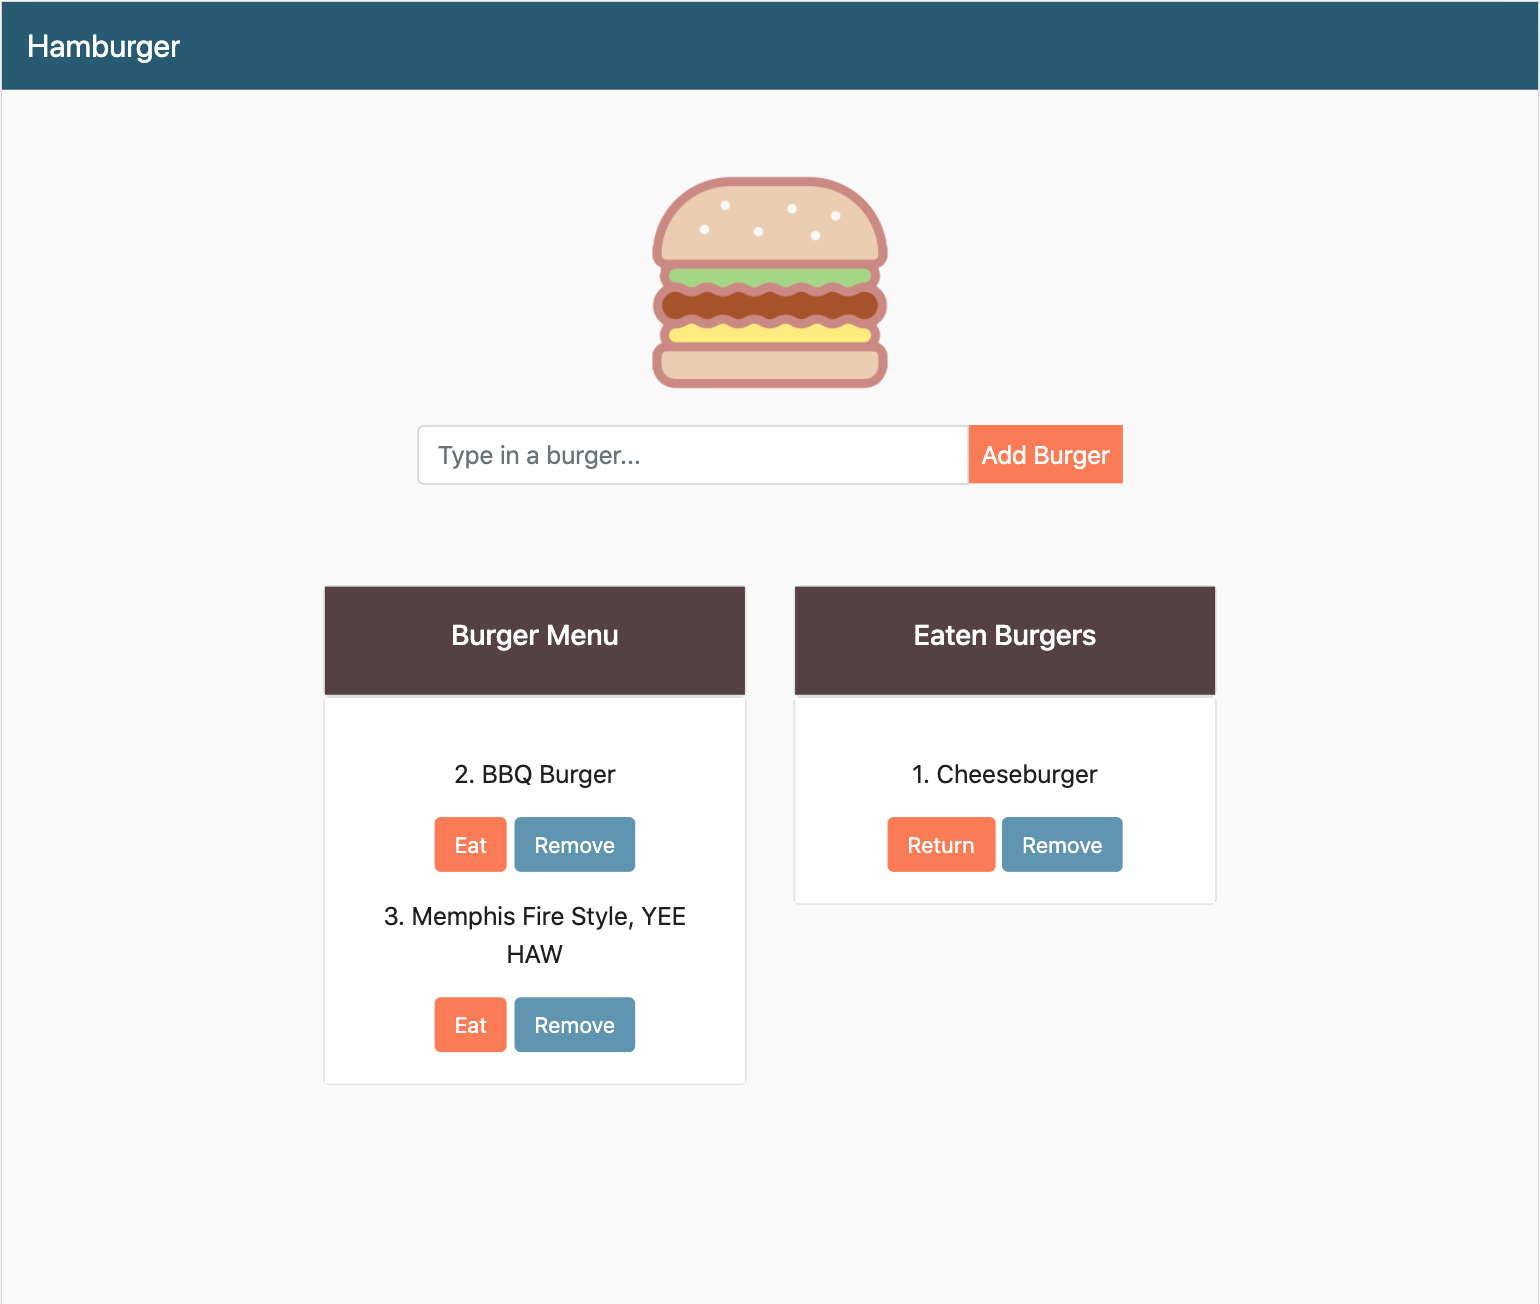
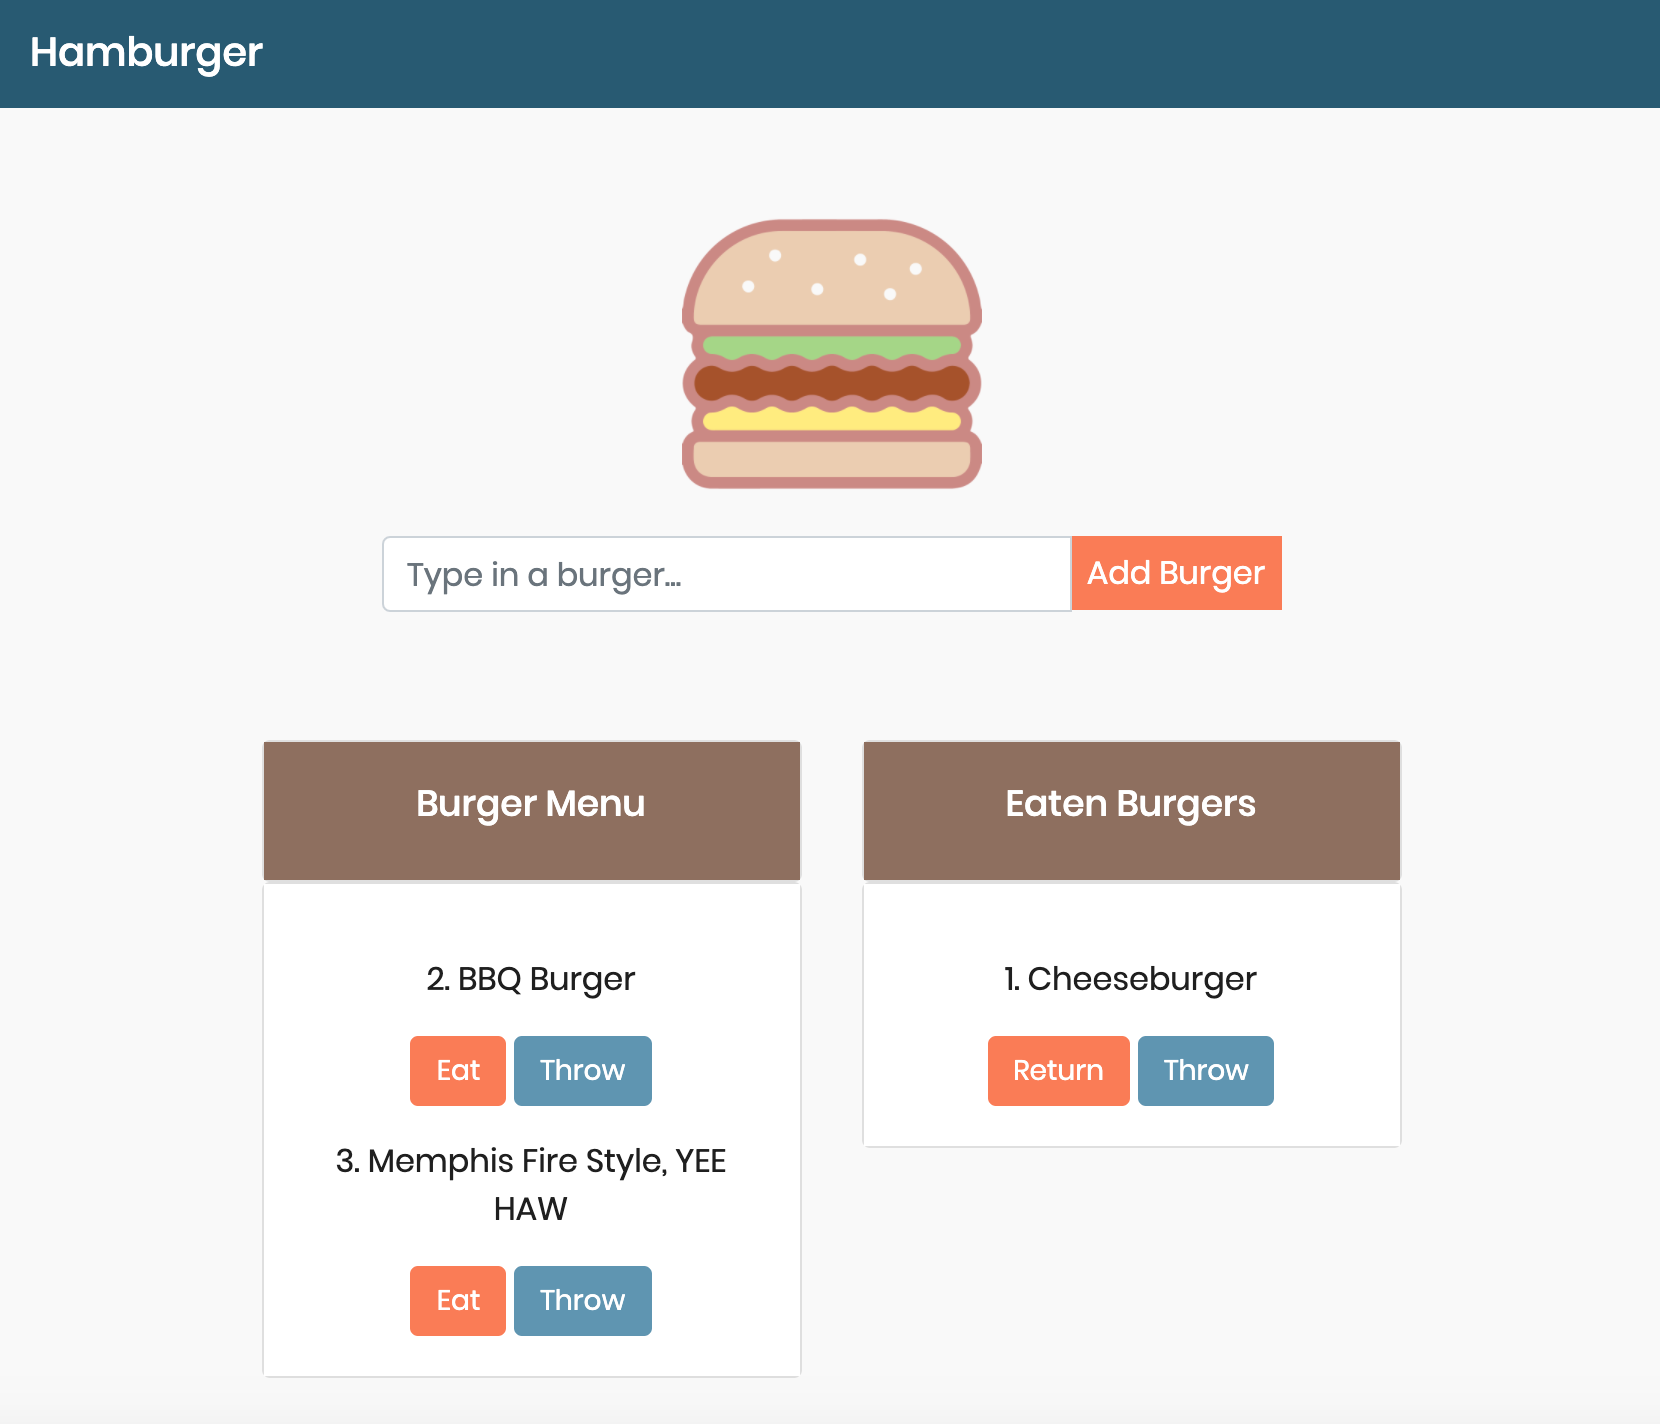
updated readme and css

Changed region(s): [[0.1558, 0.1227, 0.8416, 0.8589], [0.0, 0.0, 1.0, 1.0], [0.2494, 0.8896, 0.4052, 0.9509]]

diff --git a/public/assets/css/style.css b/public/assets/css/style.css
@@ -1,5 +1,5 @@
 body {
-    font-family: 'Muli', sans-serif;
+    font-family: 'Poppins', sans-serif !important;
     background-color: #f9f9f9!important;
 }
 
@@ -38,7 +38,7 @@ p {
 }
 
 #header {
-    background-color: #523f41;
+    background-color: #8c705f;
     color: white;
 }
 

diff --git a/README.md b/README.md
@@ -17,6 +17,8 @@ The user is first presented with a list of burgers that were previously added. T
 * Express Handlebars
 * MySQL
 * Heroku
+* Google Fonts
+* Bootstrap
 * Burger Icon from <a href="https://www.flaticon.com/authors/freepik" title="Freepik">Freepik</a> from <a href="https://www.flaticon.com/" title="Flaticon"> www.flaticon.com</a>
 
 ## Project Preview:
